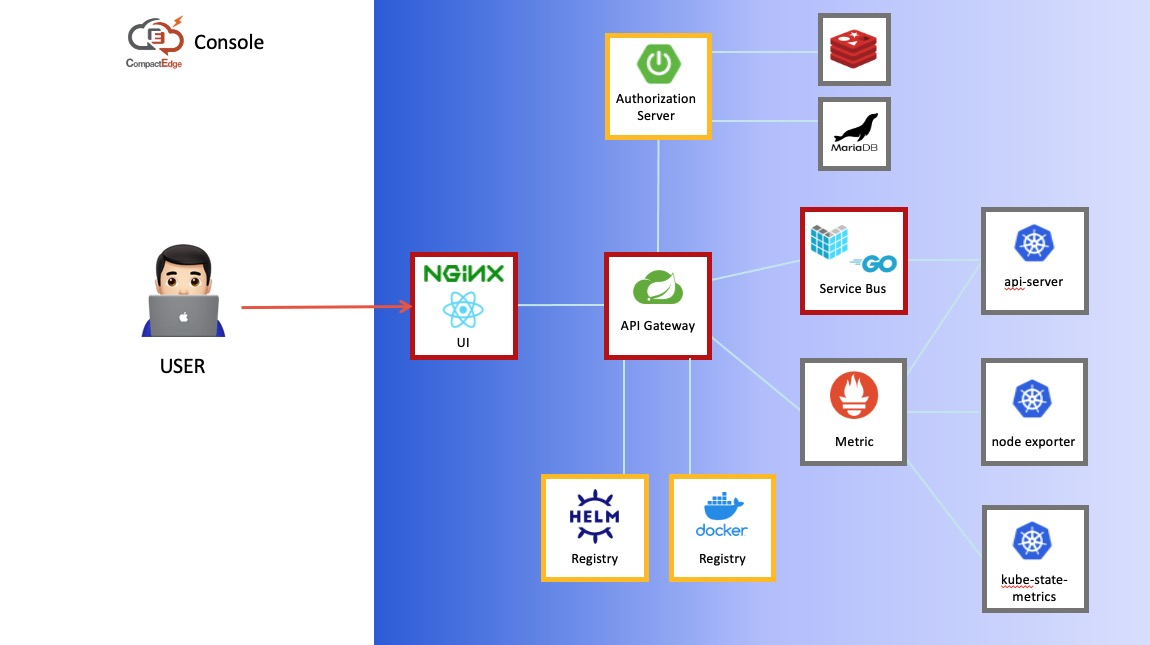
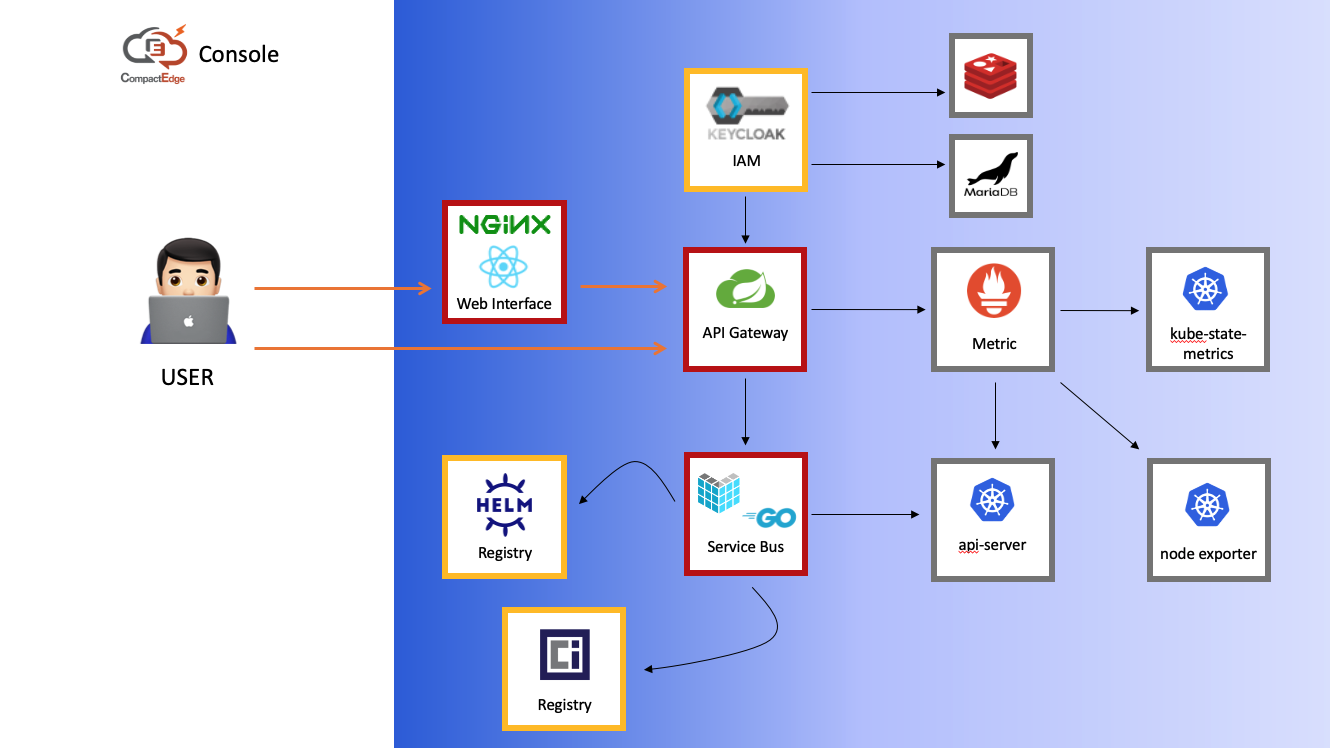
Update architecture image

diff --git a/README.md b/README.md
@@ -1,11 +1,17 @@
-# Compact Edge Management
+# Compact-Edge Management Console
 
 ![architecture-console.png](architecture-console.png)
 
-- api-gateway
-- console
-- identity-provider
-- registry
-- service-bus
-- data-stream (simulator)
+## Core
 
+- Web Interface
+- API Gateway
+- IAM (Identity and Access Management)
+- Service Bus
+- Registry
+  - Container Iamge
+  - Helm Chart
+
+## Applications
+
+- Data Stream (ELK)
